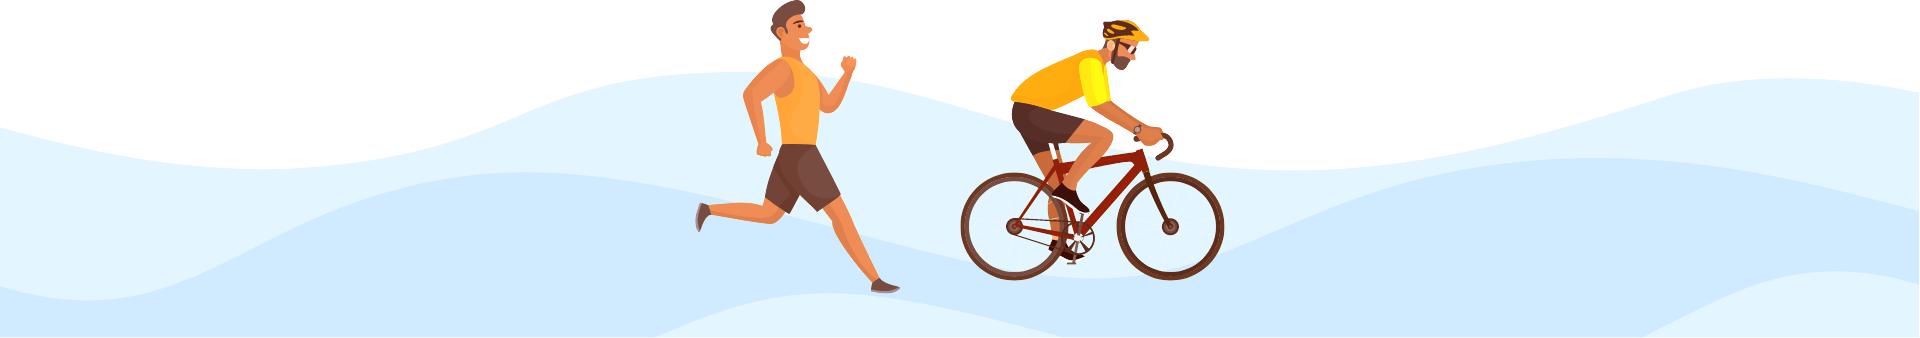
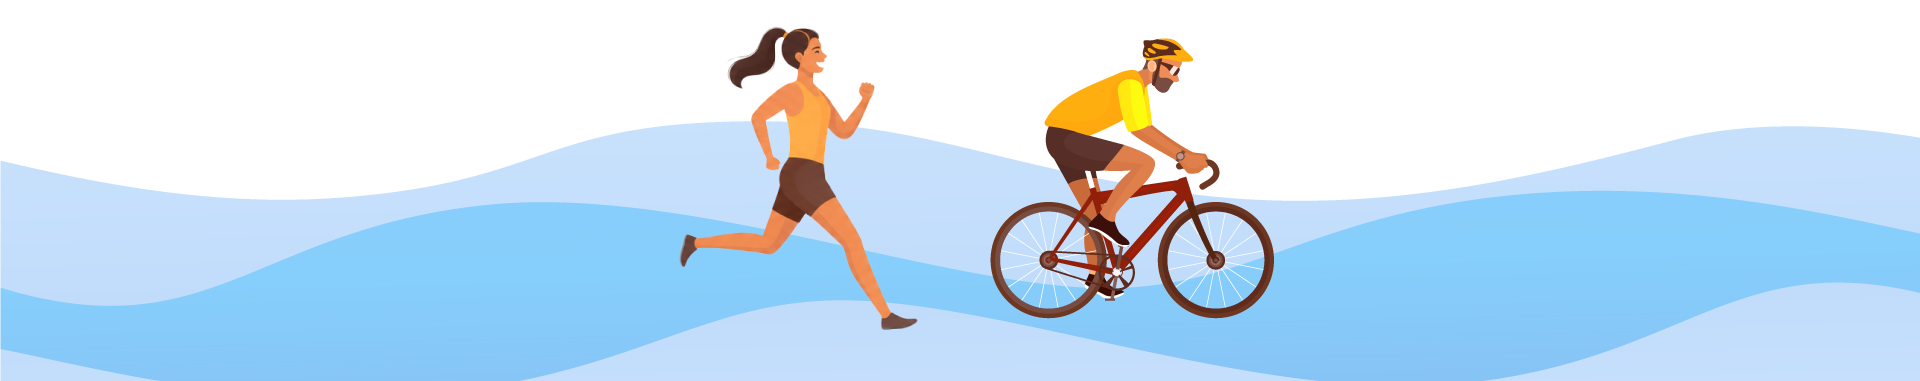
updateJuly

diff --git a/index.html b/index.html
@@ -70,7 +70,7 @@
                             <stop offset="1" stop-color="#f58633"/>
                             </linearGradient>
                         </defs>
-                        <text class="st2" transform="translate(134.54 449.82)"><tspan x="0" y="0">Pós doutorando - USP</tspan></text>
+                        <text class="st2" transform="translate(134.54 449.82)"><tspan x="0" y="0">Pós doutorando - EEFE - USP</tspan></text>
                         <text class="st1" transform="translate(0 393.31)"><tspan x="0" y="0">Luiz Silva Pesquisador</tspan></text>
                         <path class="st0" d="M353.35,0v141.84l13.46,32.16,8.4,30.11s-2.1,6.3-10.5,6.65c-3.19.13-7.38.52-11.36.81v57.79h142.57V0h-142.57Z"/>
                         <path d="M377.21,151.31c0,14.61,11.89,26.5,26.5,26.5,3.12,0,6.1-.57,8.88-1.56v-49.88c-2.78-.99-5.76-1.56-8.88-1.56-14.61,0-26.5,11.89-26.5,26.5Z"/>
@@ -107,6 +107,35 @@
     
     </header>
 
+    <section class="grid grid-cols-1 bg-black">
+        <div class="container mx-auto py-8 px-4">
+            <h1 class="text-start text-orange-400 font-poppins-black text-4xl float-start me-8 mt-7 mb-6 md:mb-0">
+                Sobre o pesquisador
+            </h1>
+            <!-- <img class="float-start w-24 border-orange-300 border-2 rounded-full" src="assets/luiz-silva.png" alt="Luiz Silva" title="Luiz Silva"> -->
+        </div>
+    </section>
+
+    <section class="container mx-auto grid grid-cols-1 md:grid-cols-2 my-8 px-4 py-10 space-x-6">
+
+            <div>
+                <img class="rounded-2xl shadow-2xl" src="assets/uiz-santos-silva-futebol.png" alt="Luiz Silva" title="Luiz Silva"> 
+            </div>
+
+            <div class="space-y-4 mt-10 md:mt-0">
+                <p class="font-poppins-regular text-gray-700 text-lg leading-9"> 
+                Luiz Silva dos Santos possui sólida proficiência metodológica quantitativa, utilizando estatística aplicada e modelagem de equações estruturais para transformar percepções subjetivas de consumo em dados matematicamente rigorosos. Sua habilidade técnica permite validar escalas psicométricas e estruturar pesquisas empíricas de alta robustez científica.
+                </p>
+                <p class="font-poppins-regular text-gray-700 text-lg leading-9"> 
+                Com dupla formação em Ciências Econômicas e Estatística, Mestrado em Gestão de Esportes, Doutorado em Administração e Organizações, Pós Doutorado em Gestão de Esportes.
+                </p>
+                <p class="font-poppins-regular text-gray-700 text-lg leading-9"> 
+                Além do rigor exato, ele se destaca pela versatilidade interdisciplinar, conectando conceitos de marketing esportivo, psicologia e gestão de negócios. O pesquisador demonstra grande capacidade de trabalhar em equipes multidisciplinares e traduzir análises de dados complexas em estratégias práticas e aplicáveis para o mercado. Interessado em parcerias acadêmicas.
+                </p>
+            </div>
+
+    </section>
+
     <section id="sobre" class="grid grid-cols-1 bg-black">
         <div class="container mx-auto px-4">
             <h1 class="text-start text-orange-400 font-poppins-black text-4xl py-8">
@@ -118,39 +147,29 @@
     <section class="grid grid-cols-1 my-20">
         <div class="container mx-auto px-4">
            <div class="space-y-4">
+                <p class="font-poppins-regular text-lg text-gray-700 leading-relaxed">
+                    Você está convidado(a) a participar das pesquisas acadêmica desenvolvida pelo Laboratório de Gestão, Comunicação e Marketing Esportivo (LAGECOM) da Escola de Educação Física e Esporte da USP (EEFE-USP).  
+                </p>
                 <!-- <p class="font-poppins-regular text-lg text-gray-700 leading-relaxed">
-                    O principal tema de suas pesquisas é entender como a relação entre o <span class="font-poppins-black text-gray-900">organizador de um evento esportivo</span> e seus <span class="font-poppins-black text-gray-900">patrocinadores</span> influencia a percepção dos consumidores sobre a marca patrocinadora. Seus estudos investigam especialmente o conceito de <span class="font-poppins-black text-gray-900">congruência,</span> isto é, o grau de compatibilidade percebida entre o evento, o organizador e a empresa patrocinadora.
-                </p>
-                <p class="font-poppins-regular text-lg text-gray-700 leading-relaxed">
-                    Em síntese, suas pesquisas mostram que:
-                </p>
-                 <p class="font-poppins-regular text-lg text-gray-700 leading-relaxed">
-                    Quanto maior a compatibilidade entre evento, organizador e patrocinador, maior tende a ser a credibilidade do patrocinador. A credibilidade da marca patrocinadora melhora as atitudes dos consumidores em relação à marca. 
-                </p>
-                 <p class="font-poppins-regular text-lg text-gray-700 leading-relaxed">
-                    Consumidores mais envolvidos com o esporte, o evento ou a marca são mais influenciados por essa congruência. 
-                </p>
-                 <p class="font-poppins-regular text-lg text-gray-700 leading-relaxed">
-                    A escolha de patrocinadores alinhados aos valores e à imagem do evento pode aumentar a eficácia das ações de marketing e patrocínio.
-                </p>
-                 <p class="font-poppins-regular text-lg text-gray-700 leading-relaxed">
-                   Meu trabalho contribui para que gestores esportivos e empresas patrocinadoras tomem decisões mais estratégicas ao estabelecer parcerias em eventos esportivos. 
-                </p>
-                <br>
-                <br> -->
-                <p class="font-poppins-regular text-lg text-gray-700 leading-relaxed">
-                    Você está convidado(a) a participar de uma pesquisa acadêmica desenvolvida pelo Laboratório de Gestão, Comunicação e Marketing Esportivo (LAGECOM) da Escola de Educação Física e Esporte da USP (EEFE-USP).  
-                </p>
-                <p class="font-poppins-regular text-lg text-gray-700 leading-relaxed">
                     O objetivo deste estudo é compreender como os participantes avaliam a qualidade dos serviços oferecidos em eventos esportivos e adaptar para a realidade brasileira.   
-                </p>  
+                </p>   -->
                 <p class="font-poppins-regular text-lg text-gray-700 leading-relaxed">
-                    O tempo estimado para responder é entre 6 a 10 minutos.
+                    O tempo estimado para responder é entre 6 a 10 minutos em cada pesquisa.
                 </p>
             </div>
              <a href="https://forms.gle/S9AiRb9zqT2Lkr8Y8" target="_blank">
                 <div class="text-center mt-12">
-                    <button class="cursor-pointer bg-linear-to-r from-blue-800 to-orange-400 text-white rounded-md hover:text-white hover:scale-110 duration-300 ease-in-out px-5 py-3 font-poppins-regular font-bold text-lg">Participar da pesquisa</button>
+                    <button class="cursor-pointer bg-linear-to-r from-blue-800 to-orange-400 text-white rounded-md hover:text-white hover:scale-110 duration-300 ease-in-out px-5 py-3 font-poppins-regular font-bold text-lg">Participar da pesquisa qualidade de eventos</button>
+                </div>
+            </a>
+            <a href="https://forms.gle/az7EyMGgbkEZcM6n8" target="_blank">
+                <div class="text-center mt-12">
+                    <button class="cursor-pointer bg-linear-to-r from-blue-800 to-orange-400 text-white rounded-md hover:text-white hover:scale-110 duration-300 ease-in-out px-5 py-3 font-poppins-regular font-bold text-lg">Participar da pesquisa perfil e comportamento corredores de rua</button>
+                </div>
+            </a>
+            <a href="https://forms.gle/aaRGK45uQjc3seTs9" target="_blank">
+                <div class="text-center mt-12">
+                    <button class="cursor-pointer bg-linear-to-r from-blue-800 to-orange-400 text-white rounded-md hover:text-white hover:scale-110 duration-300 ease-in-out px-5 py-3 font-poppins-regular font-bold text-lg">Participar da pesquisa perfil e comportamento ciclistas</button>
                 </div>
             </a>
         </div>
@@ -161,40 +180,12 @@
         <img class="block md:hidden" src="assets/infografico-corrida-e-ciclismo-mobile.jpg" alt="Infográfico Corrida de rua e ciclismo" title="Infográfico Corrida de rua e ciclismo">
     </section> -->
 
-     <section class="grid grid-cols-1 bg-black">
-        <div class="container mx-auto py-8 px-4">
-            <h1 class="text-start text-orange-400 font-poppins-black text-4xl float-start me-8 mt-7 mb-6 md:mb-0">
-                Sobre o pesquisador
-            </h1>
-            <img class="float-start w-24 border-orange-300 border-2 rounded-full" src="assets/luiz-silva.png" alt="Luiz Silva" title="Luiz Silva">
-        </div>
-    </section>
-
-    <section class="grid grid-cols-1 my-8">
-        <div class="container mx-auto px-4">
-         
-            <p class="font-poppins-regular text-gray-700 text-lg leading-9 mb-20"> 
-               Pós Doutorando</span> 
-                Luiz Silva dos Santos é um pesquisador brasileiro cuja produção acadêmica se concentra em  <span class="font-poppins-black text-gray-900">gestão de esportes, marketing esportivo, patrocínio esportivo, comportamento do consumidor e congruência entre organizadores e patrocinadores de eventos esportivos.</span> Tenho formação em Economia, especialização em Administração de Serviços pela POLI-USP, mestrado em Gestão do Esporte pela Universidade Nove de Julho e doutorado em Administração de Empresas pela mesma instituição. Está vinculado ao IP-USP - Instituto de Psicologia e a EEFE-USP - Escola de Educação Física e Esporte da Universidade de São Paulo.
-            </p>
-            
-             <!-- <a href="https://api.whatsapp.com/send?phone=+5511972123003&text=Olá,%20quero%20mais%20informações%20sobre%20a%20pesquisa." target="_blank">
-                <div class="text-center my-20">
-                    <button class="cursor-pointer bg-linear-to-r from-blue-800 to-orange-400 text-white rounded-md hover:text-white hover:scale-110 duration-300 ease-in-out px-5 py-3 font-poppins-regular font-bold text-lg"><i class="fa-brands fa-whatsapp"></i> Fale comigo</button>
-                </div>
-            </a> -->
-        </div>
-    </section>
-
-
-
-
     <!-- <section class="mx-auto justify-items-center p-0 m-0">
         <img src="assets/footer-img.jpg" alt="Luiz Silva Pesquisador" title="Luiz Silva Pesquisador">
     </section> -->
 
      <div class="mx-auto justify-items-center p-0 m-0">
-        <img src="assets/footer-img.jpg" alt="Luiz Silva Pesquisador" title="Luiz Silva Pesquisador">
+        <img src="assets/footer-img.png" alt="Luiz Silva Pesquisador" title="Luiz Silva Pesquisador">
     </div>
 
  

diff --git a/src/output.css b/src/output.css
@@ -9,11 +9,6 @@
       "Courier New", monospace;
     --color-orange-300: oklch(83.7% 0.128 66.29);
     --color-orange-400: oklch(75% 0.183 55.934);
-    --color-orange-500: oklch(70.5% 0.213 47.604);
-    --color-orange-600: oklch(64.6% 0.222 41.116);
-    --color-lime-300: oklch(89.7% 0.196 126.665);
-    --color-lime-400: oklch(84.1% 0.238 128.85);
-    --color-cyan-400: oklch(78.9% 0.154 211.53);
     --color-blue-600: oklch(54.6% 0.245 262.881);
     --color-blue-700: oklch(48.8% 0.243 264.376);
     --color-blue-800: oklch(42.4% 0.199 265.638);
@@ -48,16 +43,16 @@
     --text-4xl--line-height: calc(2.5 / 2.25);
     --text-5xl: 3rem;
     --text-5xl--line-height: 1;
-    --text-8xl: 6rem;
-    --text-8xl--line-height: 1;
     --font-weight-medium: 500;
     --font-weight-bold: 700;
     --tracking-tight: -0.025em;
     --leading-tight: 1.25;
     --leading-relaxed: 1.625;
+    --radius-xs: 0.125rem;
     --radius-md: 0.375rem;
     --radius-lg: 0.5rem;
     --radius-xl: 0.75rem;
+    --radius-2xl: 1rem;
     --ease-in-out: cubic-bezier(0.4, 0, 0.2, 1);
     --default-transition-duration: 150ms;
     --default-transition-timing-function: cubic-bezier(0.4, 0, 0.2, 1);
@@ -262,6 +257,9 @@
   .mt-8 {
     margin-top: calc(var(--spacing) * 8);
   }
+  .mt-10 {
+    margin-top: calc(var(--spacing) * 10);
+  }
   .mt-12 {
     margin-top: calc(var(--spacing) * 12);
   }
@@ -353,8 +351,25 @@
       margin-block-end: calc(calc(var(--spacing) * 4) * calc(1 - var(--tw-space-y-reverse)));
     }
   }
+  .space-x-4 {
+    :where(& > :not(:last-child)) {
+      --tw-space-x-reverse: 0;
+      margin-inline-start: calc(calc(var(--spacing) * 4) * var(--tw-space-x-reverse));
+      margin-inline-end: calc(calc(var(--spacing) * 4) * calc(1 - var(--tw-space-x-reverse)));
+    }
+  }
+  .space-x-6 {
+    :where(& > :not(:last-child)) {
+      --tw-space-x-reverse: 0;
+      margin-inline-start: calc(calc(var(--spacing) * 6) * var(--tw-space-x-reverse));
+      margin-inline-end: calc(calc(var(--spacing) * 6) * calc(1 - var(--tw-space-x-reverse)));
+    }
+  }
   .scroll-smooth {
     scroll-behavior: smooth;
+  }
+  .rounded-2xl {
+    border-radius: var(--radius-2xl);
   }
   .rounded-full {
     border-radius: calc(infinity * 1px);
@@ -390,9 +405,6 @@
   .border-gray-200 {
     border-color: var(--color-gray-200);
   }
-  .border-lime-300 {
-    border-color: var(--color-lime-300);
-  }
   .border-orange-300 {
     border-color: var(--color-orange-300);
   }
@@ -422,24 +434,8 @@
     --tw-gradient-from: var(--color-blue-800);
     --tw-gradient-stops: var(--tw-gradient-via-stops, var(--tw-gradient-position), var(--tw-gradient-from) var(--tw-gradient-from-position), var(--tw-gradient-to) var(--tw-gradient-to-position));
   }
-  .from-cyan-400 {
-    --tw-gradient-from: var(--color-cyan-400);
-    --tw-gradient-stops: var(--tw-gradient-via-stops, var(--tw-gradient-position), var(--tw-gradient-from) var(--tw-gradient-from-position), var(--tw-gradient-to) var(--tw-gradient-to-position));
-  }
-  .to-lime-400 {
-    --tw-gradient-to: var(--color-lime-400);
-    --tw-gradient-stops: var(--tw-gradient-via-stops, var(--tw-gradient-position), var(--tw-gradient-from) var(--tw-gradient-from-position), var(--tw-gradient-to) var(--tw-gradient-to-position));
-  }
   .to-orange-400 {
     --tw-gradient-to: var(--color-orange-400);
-    --tw-gradient-stops: var(--tw-gradient-via-stops, var(--tw-gradient-position), var(--tw-gradient-from) var(--tw-gradient-from-position), var(--tw-gradient-to) var(--tw-gradient-to-position));
-  }
-  .to-orange-500 {
-    --tw-gradient-to: var(--color-orange-500);
-    --tw-gradient-stops: var(--tw-gradient-via-stops, var(--tw-gradient-position), var(--tw-gradient-from) var(--tw-gradient-from-position), var(--tw-gradient-to) var(--tw-gradient-to-position));
-  }
-  .to-orange-600 {
-    --tw-gradient-to: var(--color-orange-600);
     --tw-gradient-stops: var(--tw-gradient-via-stops, var(--tw-gradient-position), var(--tw-gradient-from) var(--tw-gradient-from-position), var(--tw-gradient-to) var(--tw-gradient-to-position));
   }
   .bg-cover {
@@ -468,6 +464,9 @@
   }
   .py-8 {
     padding-block: calc(var(--spacing) * 8);
+  }
+  .py-10 {
+    padding-block: calc(var(--spacing) * 10);
   }
   .pt-6 {
     padding-top: calc(var(--spacing) * 6);
@@ -543,12 +542,6 @@
     --tw-tracking: var(--tracking-tight);
     letter-spacing: var(--tracking-tight);
   }
-  .text-gray-100 {
-    color: var(--color-gray-100);
-  }
-  .text-gray-200 {
-    color: var(--color-gray-200);
-  }
   .text-gray-500 {
     color: var(--color-gray-500);
   }
@@ -558,14 +551,8 @@
   .text-gray-700 {
     color: var(--color-gray-700);
   }
-  .text-gray-800 {
-    color: var(--color-gray-800);
-  }
   .text-gray-900 {
     color: var(--color-gray-900);
-  }
-  .text-lime-300 {
-    color: var(--color-lime-300);
   }
   .text-orange-400 {
     color: var(--color-orange-400);
@@ -576,6 +563,10 @@
   .antialiased {
     -webkit-font-smoothing: antialiased;
     -moz-osx-font-smoothing: grayscale;
+  }
+  .shadow-2xl {
+    --tw-shadow: 0 25px 50px -12px var(--tw-shadow-color, rgb(0 0 0 / 0.25));
+    box-shadow: var(--tw-inset-shadow), var(--tw-inset-ring-shadow), var(--tw-ring-offset-shadow), var(--tw-ring-shadow), var(--tw-shadow);
   }
   .shadow-sm {
     --tw-shadow: 0 1px 3px 0 var(--tw-shadow-color, rgb(0 0 0 / 0.1)), 0 1px 2px -1px var(--tw-shadow-color, rgb(0 0 0 / 0.1));
@@ -766,9 +757,9 @@
       line-height: var(--tw-leading, var(--text-xl--line-height));
     }
   }
-  .md\:mt-2 {
+  .md\:mt-0 {
     @media (width >= 48rem) {
-      margin-top: calc(var(--spacing) * 2);
+      margin-top: calc(var(--spacing) * 0);
     }
   }
   .md\:mt-8 {
@@ -794,6 +785,11 @@
   .md\:w-1\/2 {
     @media (width >= 48rem) {
       width: calc(1/2 * 100%);
+    }
+  }
+  .md\:grid-cols-2 {
+    @media (width >= 48rem) {
+      grid-template-columns: repeat(2, minmax(0, 1fr));
     }
   }
   .md\:text-2xl {
@@ -921,6 +917,11 @@ body {
   inherits: false;
 }
 @property --tw-space-y-reverse {
+  syntax: "*";
+  inherits: false;
+  initial-value: 0;
+}
+@property --tw-space-x-reverse {
   syntax: "*";
   inherits: false;
   initial-value: 0;
@@ -1096,6 +1097,7 @@ body {
       --tw-skew-x: initial;
       --tw-skew-y: initial;
       --tw-space-y-reverse: 0;
+      --tw-space-x-reverse: 0;
       --tw-border-style: solid;
       --tw-gradient-position: initial;
       --tw-gradient-from: #0000;
